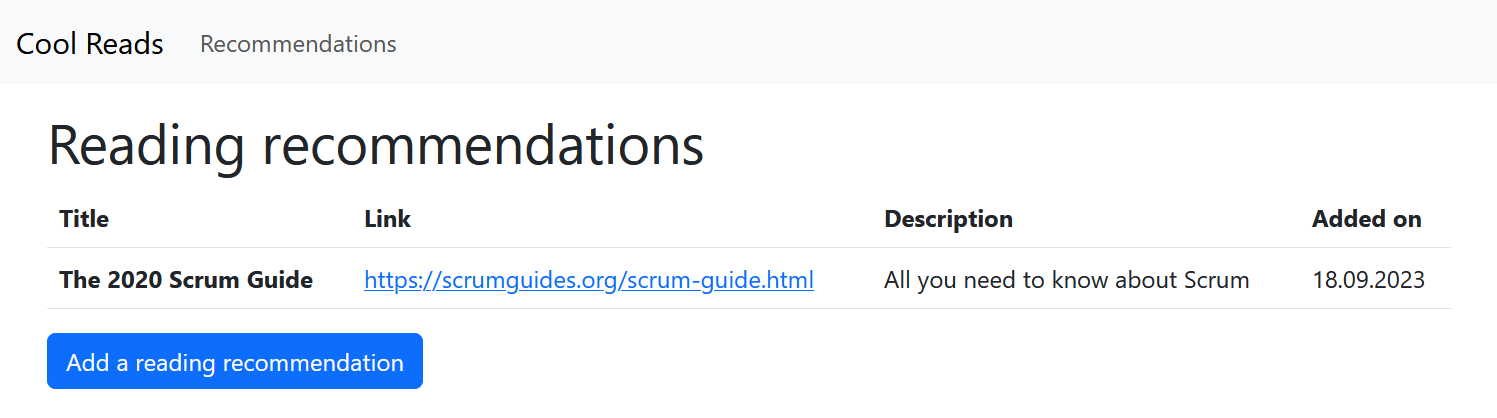
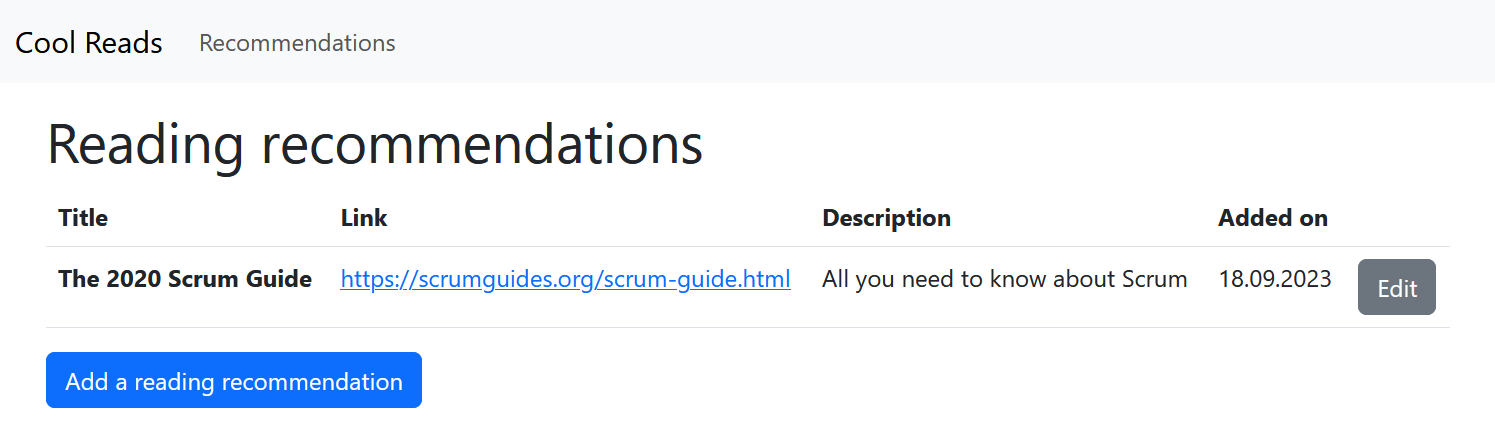
sprint 2

diff --git a/user-story-previews/sprint-2-1.html b/user-story-previews/sprint-2-1.html
@@ -32,6 +32,7 @@
             <th>Link</th>
             <th>Description</th>
             <th>Added on</th>
+            <th></th>
           </tr>
         </thead>
         <tbody>
@@ -40,6 +41,9 @@
             <td><a href="https://scrumguides.org/scrum-guide.html">https://scrumguides.org/scrum-guide.html</a></td>
             <td>All you need to know about Scrum</td>
             <td>18.09.2023</td>
+            <td>
+              <button class="btn btn-secondary">Edit</button>
+            </td>
           </tr>
         </tbody>
       </table>

diff --git a/user-story-previews/sprint-2-bonus.html b/user-story-previews/sprint-2-bonus.html
@@ -37,6 +37,10 @@
           <option value="3">News articles on cats</option>
         </select>
       </form>
+      <form class="mb-3">
+        <label class="form-label">Filter by title or description</label>
+        <input type="text" class="form-control" />
+      </form>
       <table class="table">
         <thead>
           <tr>

diff --git a/material/sprint-2.md b/material/sprint-2.md
@@ -74,7 +74,11 @@ The Sprint Review gave the Product Owner many new ideas on how to improve the ap
 >
 > It would nice if the reading recommendation list would display the date and time when the recommendations was added. This way, the user would know how old the recommendation is.
 >
-> To better organize the reading recommendations, it would be useful to be able to add different categories, like "Programming tutorials" or "Video game news". After adding a category, the user could select a category from a dropdown menu while adding a recommendation. Then, in the reading recommendation list, the user should be able to filter the recommendations based on the category. For example if user chooses a "Programming tutorials" category from a dropdown menu, only the recommendations in that category will be listed."
+> To better organize the reading recommendations, it would be useful to be able to add different categories, like "Programming tutorials" or "Video game news". User should be able to add a category using a form. There should also be a page that lists all the added categories.
+>
+> After adding a category, the user could select a category from a dropdown menu while adding a recommendation. The dropdown menu should also have an "Uncategorized" option to leave the reading recommendation uncategorized.
+>
+> In the reading recommendation list, the user should be able to filter the recommendations based on the category. For example if user chooses a "Programming tutorials" category from a dropdown menu, only the recommendations in that category will be listed. The dropdown menu should also have an "Any category" option to list all the reading recommendations."
 >
 > -- The Product Owner
 
@@ -118,7 +122,7 @@ The tasks described above are suggestions, feel free to alter them or add new ta
 
 > Exercise 3
 >
-> Come up with tasks for the fourth user story, "As an user I want to provide a category for a reading recommendation so that I can organize my recommendations".
+> Come up with tasks for the fourth user story, "As an user I want to provide a category for a reading recommendation so that I can organize my recommendations". Read the Product Owner's Sprint Planning description regarding the user story again and split it into small coding tasks. Take a look at the exercise 8 to get an idea what the implementation could look like.
 
 {: .important-title }
 
@@ -192,7 +196,7 @@ At this point it might sense to distribute the workload a bit instead of working
 
 Java classes require a lot of _boilerplate code_ in the form of getters, setters and constructors. Each time we define an attribute for a class, we need to implement getter and setter methods for it and alter the constructor. [Lombok](https://projectlombok.org/) is library that automatically generates getters, setters and constructors from the attributes.
 
-Before we can start using Lombok, we need to add it as dependency for our Maven project. Let's add the dependency for the `pom.xml` file under the `<dependencies>` list:
+Before we can start using Lombok, we need to add it as dependency for our Maven project. Let's add the dependency to the `<dependencies>` list in the `pom.xml` file:
 
 ```xml
 <dependency>
@@ -357,7 +361,7 @@ Spring Doc is a library for generating a JSON-formatted description of a REST AP
 
 Swagger provides documentation for the API endpoints we define in the controller methods. The documentation is a user interface that lists the endpoints and provides information for each one, such as what the request for the endpoint looks like and what's in the response. We can also easily send requests and inspect the response using the user interface. [Here](https://petstore.swagger.io/) is an example of a Swagger documentation.
 
-Let's start documenting our API by adding the Spring Doc dependency for the `pom.xml` file under the `<dependencies>` list:
+Let's start documenting our API by adding the Spring Doc dependency to the `<dependencies>` list in the `pom.xml` file:
 
 ```xml
 <dependency>
@@ -529,7 +533,7 @@ The JavaScript file for the frontend application is added with a `script` tag:
 <script th:src="@{/frontend/renderMessageList.js}" defer></script>
 ```
 
-The JavaScript file is bundled using a _bundler_. The bundler will combines many JavaScript code files into a single one that is loadable in the browser. We will be using the [esbuild](https://esbuild.github.io/) bundler.
+The JavaScript file is bundled using a _bundler_. The bundler will combines many JavaScript code files into a single file that is loadable in the browser. We will be using the [esbuild](https://esbuild.github.io/) bundler.
 
 If we take a look at the `scripts` section of the `package.json` file in the root folder of the project, we'll see three scripts:
 
@@ -541,9 +545,19 @@ If we take a look at the `scripts` section of the `package.json` file in the roo
 }
 ```
 
-The `esbuild-bundle` script will bundle the `frontend/messageList/renderMessageList.jsx` entry file and output the result to the `src/main/resources/static/frontend` folder. The `dev` script will execute the `esbuild-bundle` script with a `--watch` flag, which will generate the output files each time one of the source files changes. Use this script while writing the frontend code.
+Here's what the scripts do:
 
-Let's open the project folder in Git Bash and run `npm run dev` command. Next, open <http://localhost:8080/react-messages> in browser and you should see a list of messages if there's any. If the list is empty, add a message in <http://localhost:8080/messages/add> and check again.
+- The `esbuild-bundle` script will bundle the `frontend/messageList/renderMessageList.jsx` entry file and output the result to the `src/main/resources/static/frontend` folder.
+- The `dev` script will execute the `esbuild-bundle` script with a `--watch` flag, which will generate the output files each time one of the source files changes. Use this script while writing the frontend code. This is handy while we are developing the frontend.
+- The `build` script will generate a [minified](https://esbuild.github.io/api/#minify) version of the code. This version should be used for the _production version_ of the application due to its smaller file size that is faster to download through the network.
+
+Let's open the open project folder in an editor. If you have previously written frontend code using Visual Studio Code, you can use that instead of Eclipse. Then, open the project folder in a command-line interface such as Git Bash or the Visual Studio Code's integrated terminal.
+
+Start by installing the frontend dependencies by running the `npm install` command. Then, run `npm run dev` command to bundle the frontend code. Next, open <http://localhost:8080/react-messages> in browser and you should see a list of messages if there's any. If the list is empty, add a message in <http://localhost:8080/messages/add> and check again.
+
+{: .note }
+
+> Run the `npm run dev` command when you are developing the frontend application.
 
 Now that we have the <http://localhost:8080/api/recommendations> REST API, we can implement a frontend application for the recommendations list. Create a folder `recommendationList` in the `frontend` folder. In that folder, create a file `renderRecommendationList.jsx` with the following content:
 
@@ -584,9 +598,9 @@ In order to bundle the `renderRecommendationList.jsx` file with esbuild, we'll n
 }
 ```
 
-So, we replaced the previous `frontend/messageList/renderMessageList.jsx` entry file with the `frontend/recommendationList/renderRecommendationList.jsx` entry file.
+So, we replaced the previous `frontend/messageList/renderMessageList.jsx` entry file with the `frontend/recommendationList/renderRecommendationList.jsx` entry file. If you still have the `npm run dev` command running, stop it by pressing `ctrl` and `c` keys in the command-line window. Then run the `npm run dev` command again to apply the changes we made for the `dev` script.
 
-Let's run the `npm run dev` command in Git Bash and open <http://localhost:8080> in browser. We should see the text "Reading recommendation list coming soon!" where used to be the list of reading recommendations. Change the text in the `renderRecommendationList.jsx` and save the changes. Then, reaload the page and you should see that the text has changed.
+Open <http://localhost:8080> in browser. We should see the text "Reading recommendation list coming soon!" where used to be the list of reading recommendations. Change the text in the `renderRecommendationList.jsx` and save the changes. Then, reaload the page and you should see that the text has changed.
 
 Next we will implement the list of reading recommendations as a React frontend application. After that we will implement the the fifth user story "As an user I want to filter reading recommendations based on the category so that I can find interesting recommendations easier".
 
@@ -676,19 +690,139 @@ For the _fifth user story_ we can have the following tasks in addition to the RE
 >
 > Once you have completed the exercises for this Sprint, remove the excessive Java class files and Thymeleaf template files that were in the original example project and are not relevant to your project. Also, remove the excessive `messageList` folder from the `frontend` folder.
 
-## Sprint Review
+## Frontend workflow with Maven
 
-We have all kinds of cool stuff to show for the Product Owner at the end of this Sprint. Prepare for the upcoming [Sprint Review](/sprint-1#sprint-review) event, similarly as in the previous Sprint.
+We can integrate the frontend's npm scripts with the backend's Maven workflow using the [frontend-maven-plugin](https://github.com/eirslett/frontend-maven-plugin). Using the plugin, we can run all the commands required for the frontend application when we compile the Java code. This will simplify the development workflow of the whole application.
+
+Let's add the frontend-maven-plugin to the `<plugins>` list in the `pom.xml` file:
+
+```xml
+<plugin>
+  <groupId>com.github.eirslett</groupId>
+  <artifactId>frontend-maven-plugin</artifactId>
+  <version>1.14.2</version>
+  <executions>
+    <execution>
+      <id>install node and npm</id>
+      <goals>
+        <goal>install-node-and-npm</goal>
+      </goals>
+      <phase>generate-resources</phase>
+      <configuration>
+        <nodeVersion>v18.16.0</nodeVersion>
+      </configuration>
+    </execution>
+    <execution>
+      <id>npm install</id>
+      <goals>
+        <goal>npm</goal>
+      </goals>
+      <phase>generate-resources</phase>
+      <configuration>
+        <arguments>install</arguments>
+      </configuration>
+    </execution>
+    <execution>
+      <id>npm build</id>
+      <goals>
+        <goal>npm</goal>
+      </goals>
+      <phase>generate-resources</phase>
+      <configuration>
+        <arguments>run build</arguments>
+      </configuration>
+    </execution>
+  </executions>
+</plugin>
+```
+
+The plugin will execute three commands when we generate the resources for the project:
+
+1. Install Node.js
+2. Run `npm install` command
+3. Run `npm run build` command
+
+Now, if we run the `./mvnw spring-boot:run` command, the command output indicates that the frontend related commands are executed.
 
 {: .important-title }
 
 > Exercise 17
 >
-> Once you have implemented the user stories of the Sprint and the main branch has a working version of the application, create a GitHub release for the project as instructed in the [GitHub's documentation](https://docs.github.com/en/repositories/releasing-projects-on-github/managing-releases-in-a-repository). Create a new tag called "sprint2". The release title should be "Sprint 2". Give a brief description for the release that describes the features implemented during the Sprint.
+> Use the frontend-maven-plugin in the project as instructed above.
+
+## JAR
+
+A JAR (Java Archive) is a package file format typically used to aggregate many Java class files and associated metadata and resources (such as CSS files, JavaScript files and other assets) into one file to distribute application software or libraries on the Java platform.If an user wants to use our application, instead of providing them with the entire source code, we can just provide a JAR file containing everything needed to run our application.
+
+We can generate a JAR file for the application with the following command:
+
+```bash
+./mvnw package
+```
+
+The command will generate the JAR file under the `target` folder. Inside the folder there should a file `cool-reads-0.0.1-SNAPSHOT.jar`. 
+
+If the application is currently running, for example in Eclipse, stop it. Then, run `java -jar target/cool-reads-0.0.1-SNAPSHOT.jar` to run the application with the JAR file. Open the application in <http://localhost:8080> and see that it is working.
+
+{: .note }
+
+> When you change the application's code, you need to re-generate the JAR file with the `./mvnw package` command to have a JAR file for the latest version of the application.
+
+## ⭐ Bonus user story
+
+{: .note }
+
+> This user story is optional. If you have implemented all other user stories, feel free to implement this one.
+
+The Product Owner came up with a feature for the application if we run out of work during the Sprint:
+
+> "The category filter on the reading recommendation list is very helpful for finding the right things to read. But it would even more helpful if an user would be able to filter reading recommendations by a title or a description.
+>
+> There could be a filter field in the reading recommendation list and if either the title or the description of a reading recommendation contains the keyword typed in to the field, the reading recommendation would be listed. If there's no keyword, all the reading recommendations would be listed."
+>
+> -- The Product Owner
+
+{: .important-title }
+
+> Bonus exercise
+>
+> Come up with an user story based on the Product Owner's description and add it to the "Product Backlog" board in Trello. Then, split the user story into tasks and add those to the "Sprint 2 Backlog" board in Trello. Finally, implement the tasks.
+>
+> The implementation should look roughly something like this:
+>
+> ![](/assets/sprint-2-user-story-bonus.png)
+>
+> If you have trouble with the implementation, here's a high-level idea of the implementation:
+>
+> ```jsx
+> // ...
+> const [recommendations, setRecommendations] = useState([]);
+> const [keyword, setKeyword] = useState("");
+>
+> let filteredRecommendations = recommendations;
+>
+> if (keyword) {
+>   filteredRecommendations = recommendations.filter(/* ... */);
+> }
+> ```
+
+Check the documentation for the [Array.filter](https://developer.mozilla.org/en-US/docs/Web/JavaScript/Reference/Global_Objects/Array/filter) method to learn how to filter arrays.
+
+## Sprint Review
+
+We have all kinds of cool stuff to show for the Product Owner at the end of this Sprint. Prepare for the upcoming [Sprint Review](/sprint-1#print-review) event, similarly as in the previous Sprint.
 
 {: .important-title }
 
 > Exercise 18
+>
+> Once you have implemented the user stories of the Sprint and the main branch has a working version of the application, create a GitHub release for the project as instructed in the [GitHub's documentation](https://docs.github.com/en/repositories/releasing-projects-on-github/managing-releases-in-a-repository). Create a new tag called "sprint2". The release title should be "Sprint 2". Give a brief description for the release that describes the features implemented during the Sprint.
+>
+> Also generate a _JAR file for the application_ as instructed previously. Add the JAR file to the release by clicking the "Attach binaries by dropping them here or selecting them." section in the release form.
+
+{: .important-title }
+
+> Exercise 19
 >
 > Decide which team member gives the Sprint Review demonstration at the beginning of the next Sprint. The team member should be someone else as the one who gave it previously. This team member should make sure that they have a working version of the application on their computer and is able to show how the new features work in the user's perspective.
 >

diff --git a/material/schedule.md b/material/schedule.md
@@ -21,7 +21,7 @@ On the third week the teams start working on the project. The project advances i
 | 30.10.          | [Version control: Git and GitHub](/git)                                   | Exercises 1 - 12, deadline on {{site.week_2_deadline}}   |
 | 6.11.           | [Sprint 1](/sprint-1): Sprint Planning, Scrum backlogs, GitHub's workflow | Exercises 1 - 18, deadline on {{site.sprint_1_deadline}} |
 | 13.11.          | Daily Scrum, Sprint Review                                                |                                                          |
-| 20.11.          | [Sprint 2](/sprint-2): Retrospective                                      | Exercises 1 - 18, deadline on {{site.sprint_2_deadline}} |
+| 20.11.          | [Sprint 2](/sprint-2): Retrospective                                      | Exercises 1 - 19, deadline on {{site.sprint_2_deadline}} |
 | 27.11.          | REST APIs, communication between frontend and backend                     |                                                          |
 | 4.12.           | [Sprint 3](/sprint-3): Testing                                            | Deadline on {{site.sprint_3_deadline}}                   |
 | 11.12.          | Finishing the project                                                              |                                                          |
